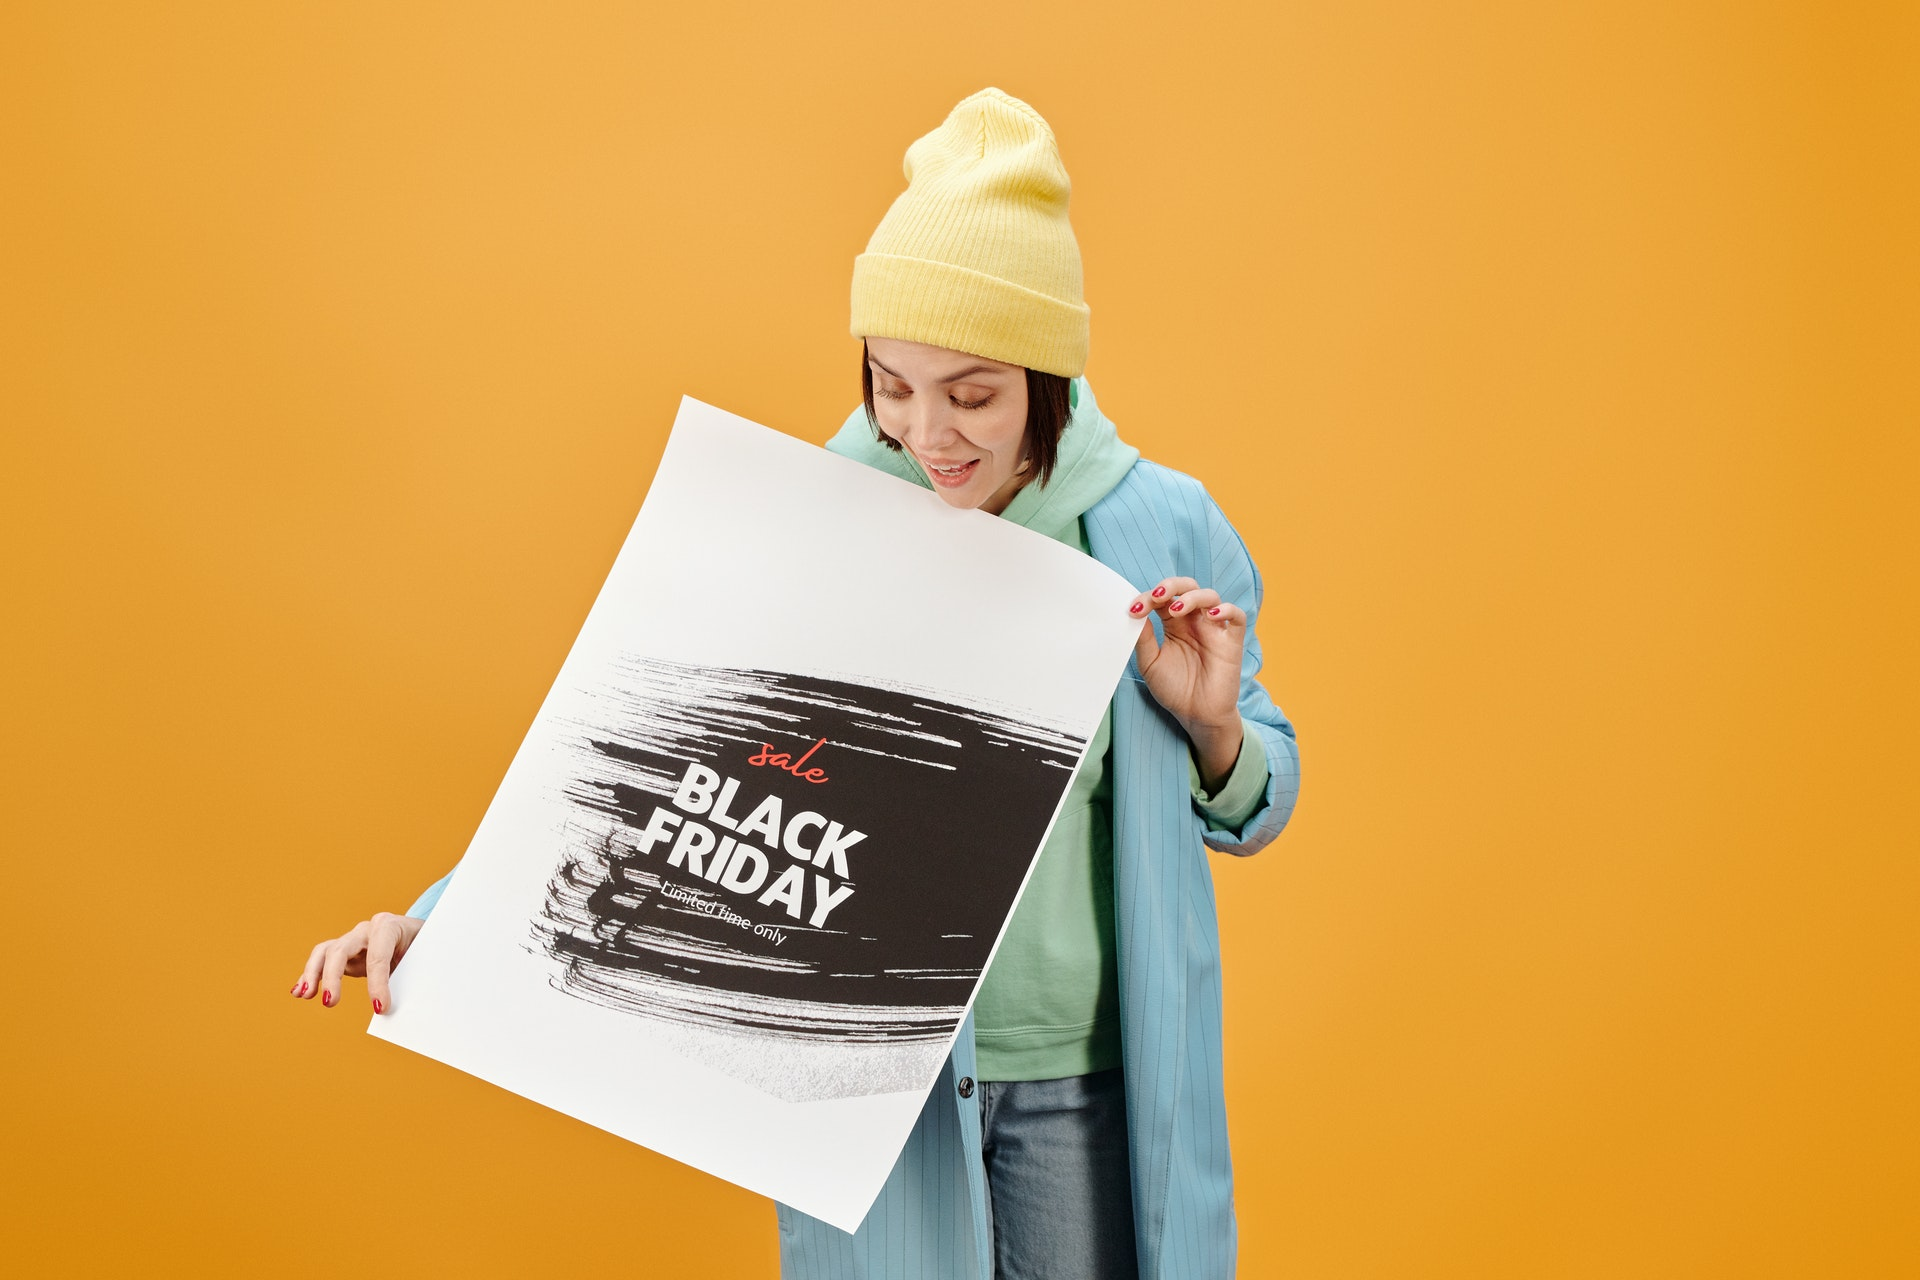
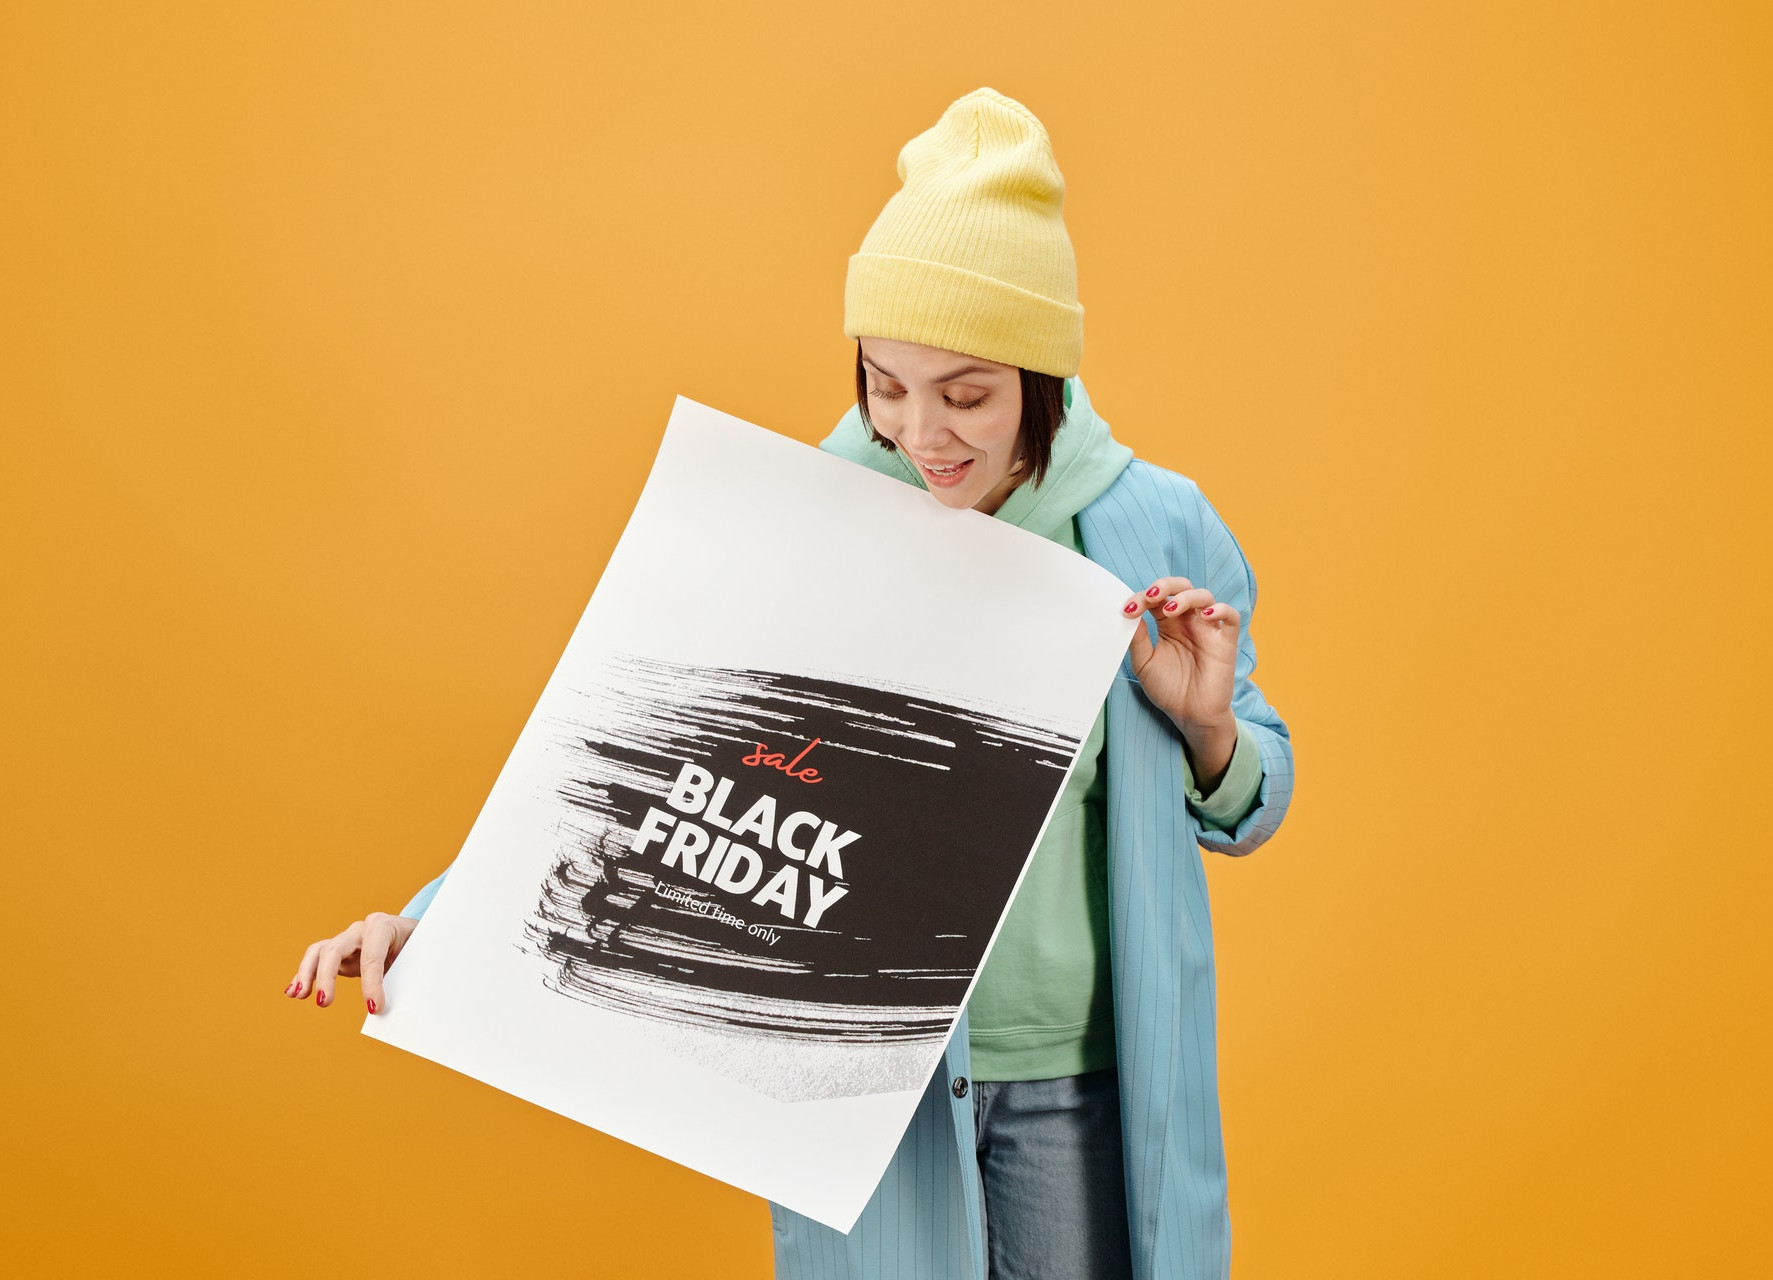
Updates

Changed region(s): [[0.1551, 0.0625, 0.7445, 1.0], [0.2171, 0.8125, 0.3102, 0.875]]

diff --git a/css/style.css b/css/style.css
@@ -94,7 +94,7 @@ footer p {
 /* Media Queries */
 @media (max-width: 986px) {
     #main__section-banner {
-        background-image: url('../imagens/black-friday-02-v2.jpg');
+        background-image: url('../imagens/black-friday-02.jpg');
         background-position: center;
     }
 }
